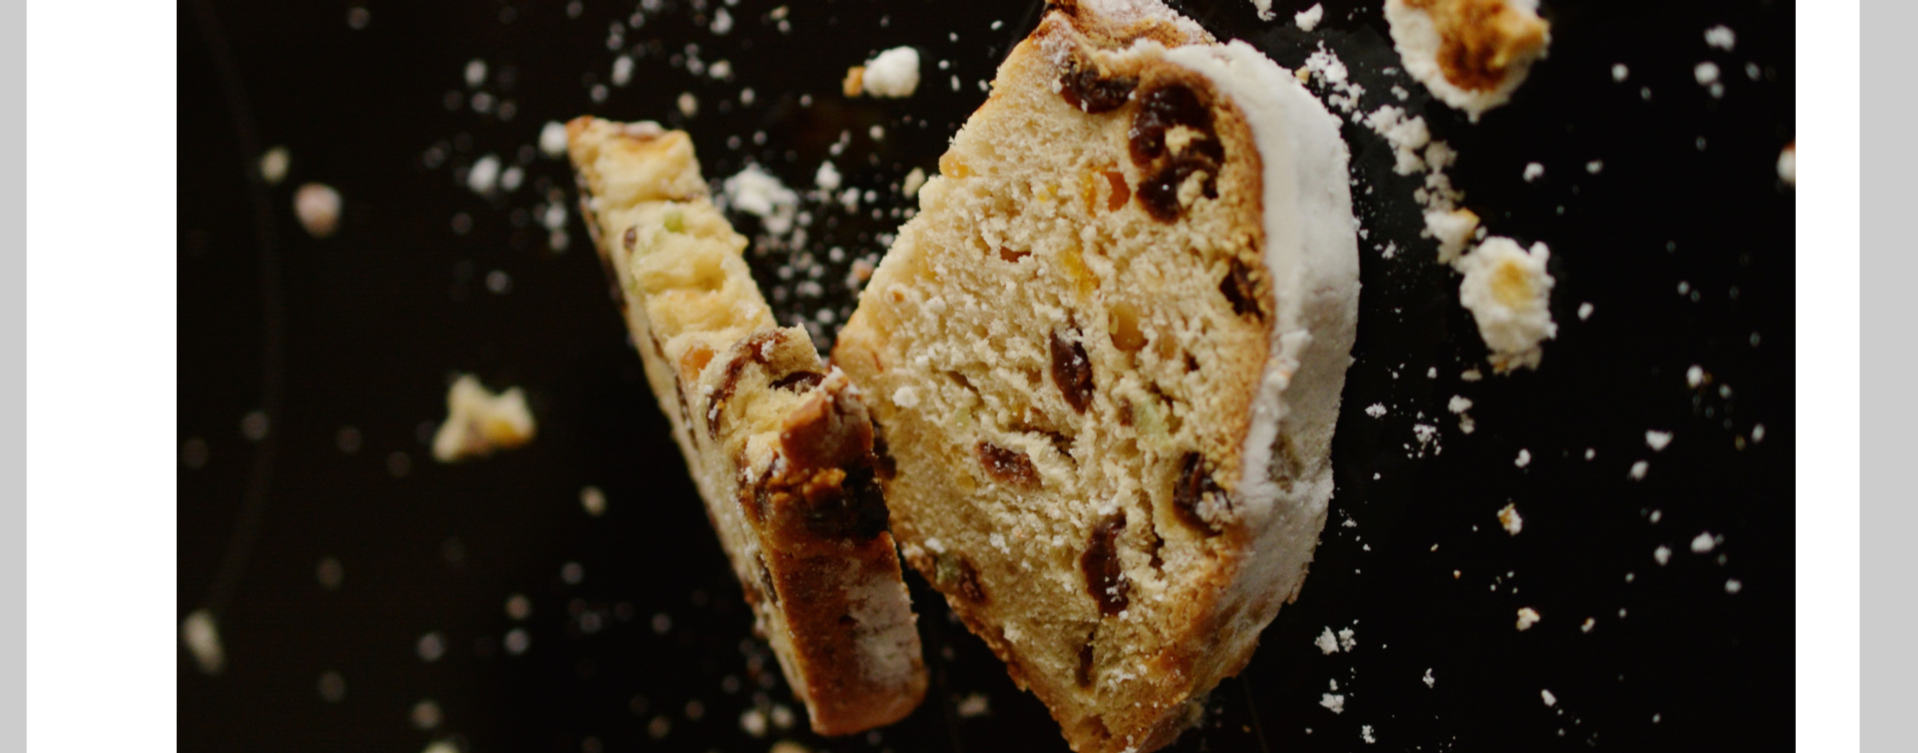
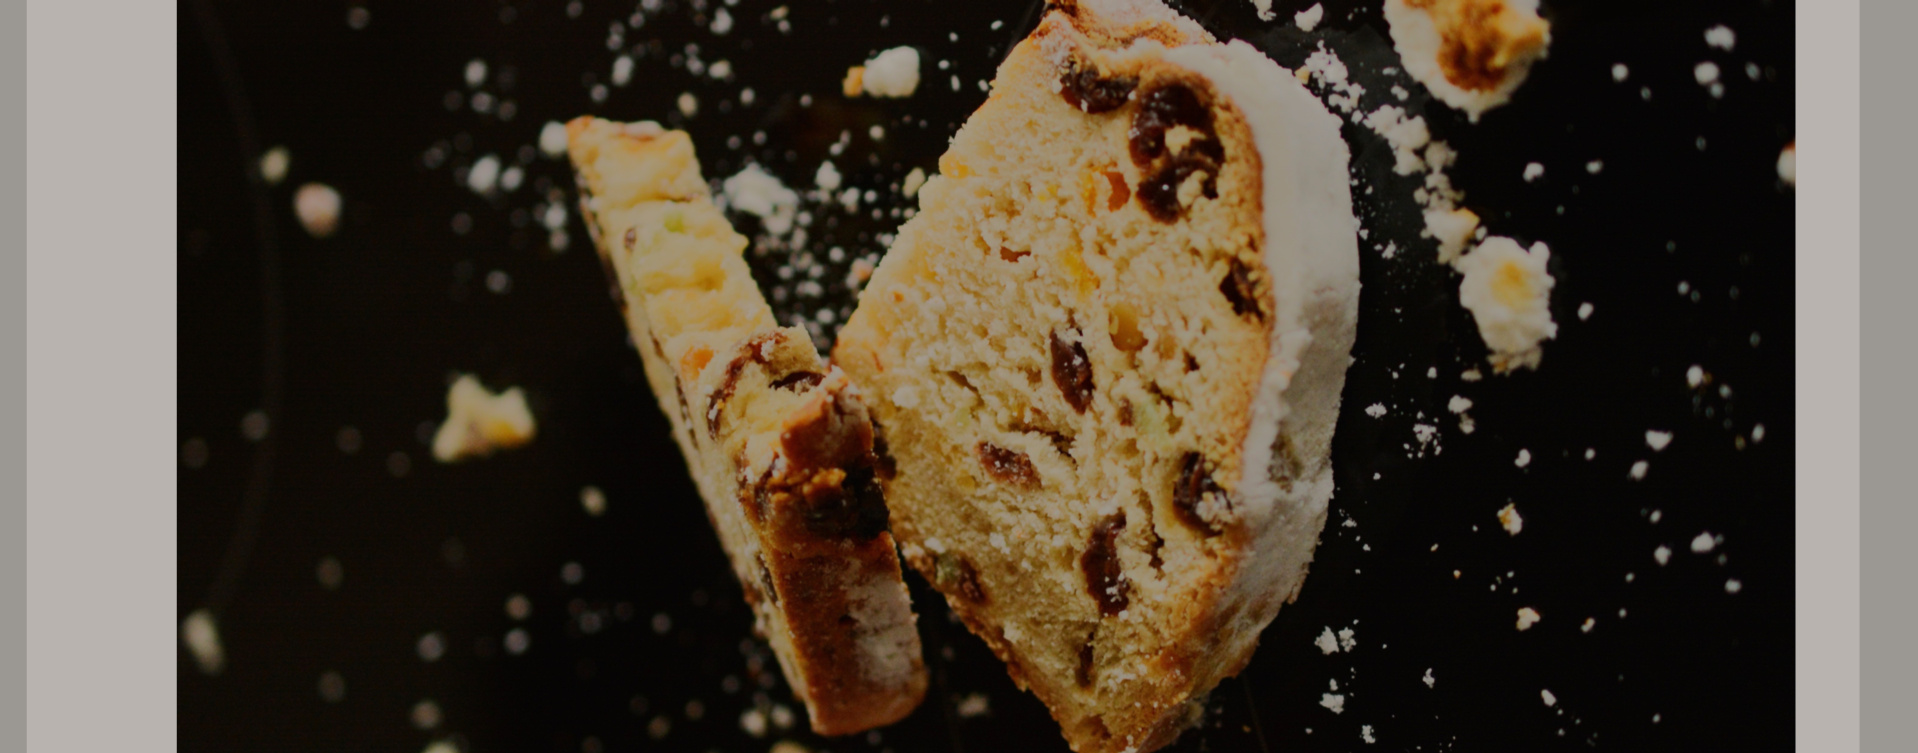
feat: append filemtime cache busting parameters to carousel images and update slides

diff --git a/public/css/estilo_Modificación_Index.css b/public/css/estilo_Modificación_Index.css
@@ -500,3 +500,62 @@ h3 {
         background-repeat: no-repeat !important;
     }
 }
+
+/* ─── Legibilidad del texto sobre el carrusel de portada ─────────────────────
+   Sintoma: en la diapositiva "Ingredientes de calidad" las letras de "NTES DE"
+   se perdian contra el cuenco de harina; en "Descubre el nuevo sabor" pasaba lo
+   mismo con "BRE EL" y "SABOR" sobre el trozo de bizcocho.
+
+   Causa: el texto del carrusel es blanco y la foto que tiene detras esta casi
+   quemada en esas zonas. Midiendo el contorno de cada glifo sobre el render
+   real, el 36 % del borde de las letras del titular quedaba por debajo de 3:1,
+   que es el minimo que pide WCAG 2.1 para texto grande; el peor 5 % bajaba a
+   1,5:1 (practicamente blanco sobre blanco).
+
+   Arreglo, en dos partes:
+     1. En la foto (public/images/slide-1/2-1920x753.jpg): se bajaron las altas
+        luces hacia un marron calido, solo por encima del 35 % de luminancia,
+        asi que sombras y medios quedan intactos y no se apaga la imagen.
+     2. Aqui: un halo oscuro difuminado detras del texto. Va suave a proposito,
+        porque el grueso del contraste ya lo aporta el paso 1; con mas opacidad
+        el desenfoque se cuela por los huecos de la tipografia Asfalto y le
+        ensucia el picado.
+
+   Resultado medido en el titular: el peor 5 % del contorno pasa de 1,5:1 a
+   4,5:1 y no queda nada por debajo de 3:1. En el parrafo, de 2,4:1 a 4,0:1.
+   Ni la tipografia ni el encuadre de la foto cambian.
+   --------------------------------------------------------------------------- */
+.swiper-slider-2 .swiper-title {
+    text-shadow:
+        0 0 22px rgba(0, 0, 0, .60),
+        0 0 8px rgba(0, 0, 0, .45);
+}
+
+.swiper-slider-2 .swiper-text {
+    text-shadow:
+        0 0 12px rgba(0, 0, 0, .70),
+        0 0 4px rgba(0, 0, 0, .50);
+}
+
+/* ─── ... y que ese halo no lo recorte la caja del titular ───────────────────
+   El h1 del carrusel lleva tambien la clase .oh del tema (style.css:6349), que
+   es `overflow: hidden` para que la animacion de entrada revele el texto como
+   si saliera de una ranura. Ese recorte se comia el halo por arriba: en lugar
+   de un degradado de unos 20 px, la sombra quedaba cortada en seco a 3 px de
+   las mayusculas y se leia como una linea oscura recta cruzando por encima de
+   toda la primera linea. Solo pasaba arriba; por los lados y por abajo la caja
+   tiene sitio de sobra.
+
+   `overflow: clip` recorta igual que `hidden` --la animacion no cambia-- pero
+   admite `overflow-clip-margin`, que permite pintar 30 px por fuera de la caja.
+   Asi cabe el desenfoque entero sin tocar el flujo: ni margenes negativos ni
+   relleno que compensar.
+
+   Medido: con esto el render queda identico pixel a pixel al de un h1 sin
+   recorte ninguno. Si un navegador no entendiese `overflow-clip-margin`, se
+   queda con el `hidden` de .oh, que es como estaba antes.
+   --------------------------------------------------------------------------- */
+.swiper-slider-2 .swiper-title {
+    overflow: clip;
+    overflow-clip-margin: 30px;
+}

diff --git a/resources/views/cliente/index.blade.php b/resources/views/cliente/index.blade.php
@@ -81,9 +81,11 @@
 </form>
 @endsection
 @section('content')
+{{-- ?v=filemtime en las fotos del carrusel: mismo motivo que en style.css,
+     evita servir la imagen vieja de cache tras retocarla --}}
 <section class="section swiper-container swiper-slider swiper-slider-2 swiper-slider-3" data-loop="true" data-autoplay="5000" data-simulate-touch="false" data-slide-effect="fade">
     <div class="swiper-wrapper text-sm-left">
-        <div class="swiper-slide context-dark" data-slide-bg="{{ asset('images/slide-1-1920x753.jpg') }}">
+        <div class="swiper-slide context-dark" data-slide-bg="{{ asset('images/slide-1-1920x753.jpg') }}?v={{ filemtime(public_path('images/slide-1-1920x753.jpg')) }}">
             <div class="swiper-slide-caption section-md">
                 <div class="container">
                     <div class="row">
@@ -96,7 +98,7 @@
                 </div>
             </div>
         </div>
-        <div class="swiper-slide context-dark" data-slide-bg="{{ asset('images/slide-2-1920x753.jpg') }}">
+        <div class="swiper-slide context-dark" data-slide-bg="{{ asset('images/slide-2-1920x753.jpg') }}?v={{ filemtime(public_path('images/slide-2-1920x753.jpg')) }}">
             <div class="swiper-slide-caption section-md">
                 <div class="container">
                     <div class="row">
